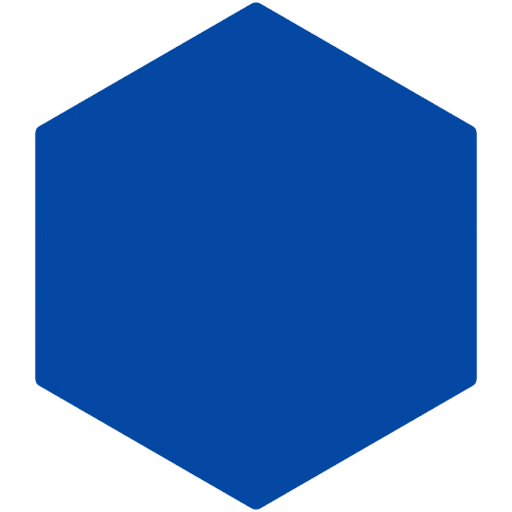
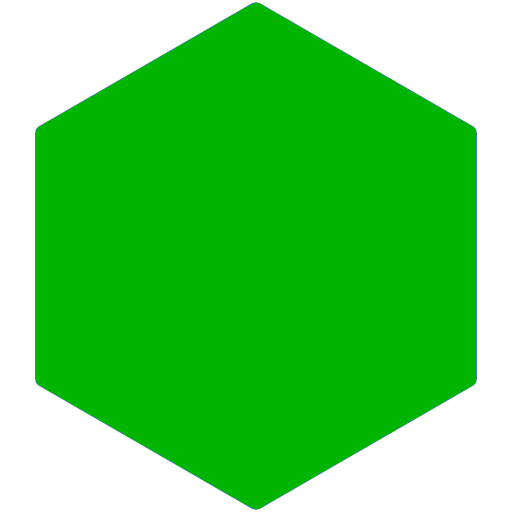
UI bugs and visuals update

diff --git a/shared/app.css b/shared/app.css
@@ -1,19 +1,4 @@
-/*
- * Copyright 2017 Google Inc. All Rights Reserved.
- * Licensed under the Apache License, Version 2.0 (the "License");
- * you may not use this file except in compliance with the License.
- * You may obtain a copy of the License at
- *
- *     http://www.apache.org/licenses/LICENSE-2.0
- *
- * Unless required by applicable law or agreed to in writing, software
- * distributed under the License is distributed on an "AS IS" BASIS,
- * WITHOUT WARRANTIES OR CONDITIONS OF ANY KIND, either express or implied.
- * See the License for the specific language governing permissions and
- * limitations under the License.
- */
-
- body {
+  body {
   font-family: monospace;
   margin: 0;
   overflow: hidden;
@@ -107,27 +92,27 @@ body.ar.stabilized #stabilization {
 #wrong-hosting-root { display: none; }
 
 #buttonid {
-  border: 2.5px solid #0448a3; /* Increased border thickness */
+  border: 0.16rem solid #00B400;
   background-color: transparent;
   border-radius: 30%;
   color: #fff;
   cursor: pointer;
   font-family: "Space Grotesk", -apple-system, system-ui, "Segoe UI", Roboto, Helvetica, Arial, sans-serif;
-  font-size: 18px;
+  font-size: 1.125rem;
   font-weight: 700;
-  padding: 16px;
+  padding: 1rem;
   text-align: center;
   user-select: none;
   -webkit-user-select: none;
   touch-action: manipulation;
   transition: all .2s cubic-bezier(.22, .61, .36, 1);
   position: fixed;
-  bottom: 60px;
+  bottom: 10vh;
   left: 50%;
   transform: translateX(-50%);
-  width: 70px;
-  height: 70px;
-  line-height: 38px; 
+  width: 5rem;
+  height: 5rem;
+  line-height: 2.375rem;
 }
 
 .container{
@@ -140,10 +125,10 @@ body.ar.stabilized #stabilization {
   display: inline-block;
   position: absolute;
   text-align: center;
-  font-size: 24px;
+  font-size: 1.5rem;
   line-height: 1;
-  width: 90px;
-  height: 90px;
+  width: 5.625rem;
+  height: 5.625rem;
   background-image: url('./hex.png');
   background-size: cover;
   background-position: center;
@@ -157,7 +142,7 @@ body.ar.stabilized #stabilization {
   transform: translate(-50%, -50%);
   color: white;
   font-family: monospace;
-  font-size: 12px;
+  font-size: 0.75rem;
 }
 
 .hidden {

diff --git a/app.js b/app.js
@@ -152,7 +152,7 @@ class App {
 
   onButtonClick = (event) => {
     this.buttonClicked = true;
-    event.stopPropagation()
+    event.stopPropagation();
     
     if (this.lastClone) {
       this.scene.remove(this.lastClone);
@@ -171,7 +171,7 @@ class App {
     event.stopPropagation();
     this.hexClicked = true;
     this.otherHexes.forEach(hex => hex.classList.toggle('hidden'));
-};
+  };
 
   selectModel(modelName) {
     this.hexClicked = true;
@@ -187,6 +187,11 @@ class App {
   }
 
   cycleCutState = (state) => {
+    if (!this.lastClone) {
+      console.warn('No object is spawned. Please place an object before interacting with the cut buttons.');
+      return; // Exit the function if no object is spawned
+    }
+
     this.cut1.style.backgroundImage = "url('./shared/hex.png')";
     this.cut2.style.backgroundImage = "url('./shared/hex.png')";
     this.uncut.style.backgroundImage = "url('./shared/hex.png')";
@@ -308,12 +313,8 @@ class App {
 
   /** Place an object when the screen is tapped. */
   onSelect = () => {
-    if (this.buttonClicked) {
+    if (this.buttonClicked || this.hexClicked) {
       this.buttonClicked = false;
-      return;
-    }
-
-    if (this.hexClicked) {
       this.hexClicked = false;
       return;
     }
@@ -360,6 +361,7 @@ class App {
 
       this.scene.add(clone);
       this.lastClone = clone;
+      this.uncut.style.backgroundImage = "url('./shared/filledHex.png')";
         
       const interactionPlane = new THREE.Mesh(
         new THREE.PlaneGeometry(2, 2),
@@ -420,6 +422,9 @@ class App {
         if(clicks < 1){
           this.reticle.visible = true;
           this.button.style.display = "none";
+          this.cut1.style.backgroundImage = "url('./shared/hex.png')";
+          this.cut2.style.backgroundImage = "url('./shared/hex.png')";
+          this.uncut.style.backgroundImage = "url('./shared/hex.png')";
         }else if(clicks >= 1){
           this.reticle.visible = false;
           this.button.style.display = "block";

diff --git a/index.html b/index.html
@@ -53,6 +53,13 @@
       <div class="hex pos10 hidden"><span>FULL</span></div>
     </div>
 
+    <script>
+      cutOneButton = document.querySelector(".hex.pos8");
+      cutTwoButton = document.querySelector(".hex.pos9");
+      fullButton = document.querySelector(".hex.pos10");
+
+    </script>
+
     <div id="logOutput"></div>
 
     <script src="app.js"></script>

diff --git a/shared/utils.js b/shared/utils.js
@@ -180,6 +180,7 @@ const ITKpartCut2Files = [
   "itk-strip-endcup-detector-sidea-cut3.glb", 
   "itk-strip-endcup-detector-sidec-cut3.glb"
 ];
+
 const muonpartCut2Files = [
   "muon-barrel-inner-cut3.glb",
   "muon-barrel-middle-cut3.glb",
